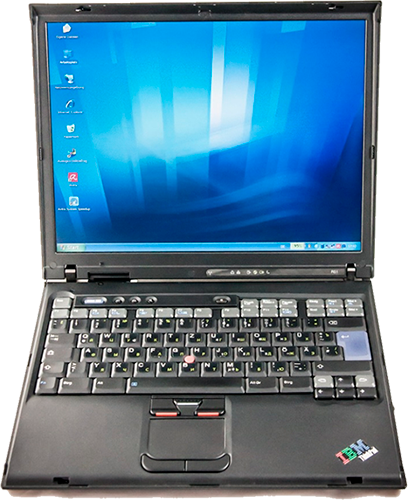
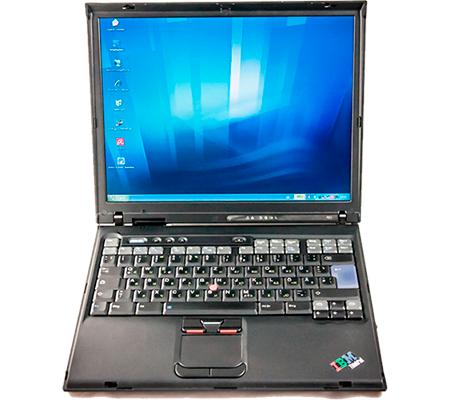
images optimized

diff --git a/sass/style.scss b/sass/style.scss
@@ -173,7 +173,7 @@ body {
     display: flex;
     flex-direction: row;
     margin-left: 60%;
-    padding: 1rem;
+    padding-top: 1rem;
   }
 }
 
